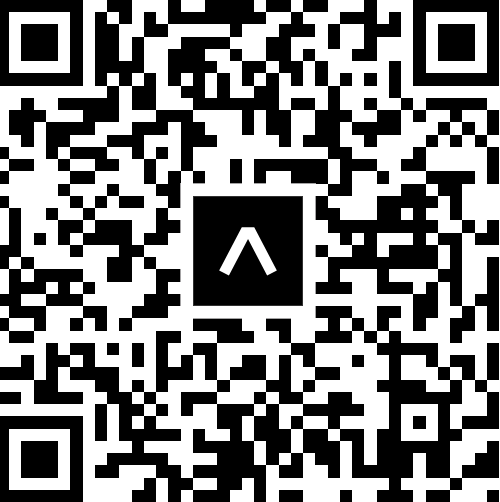
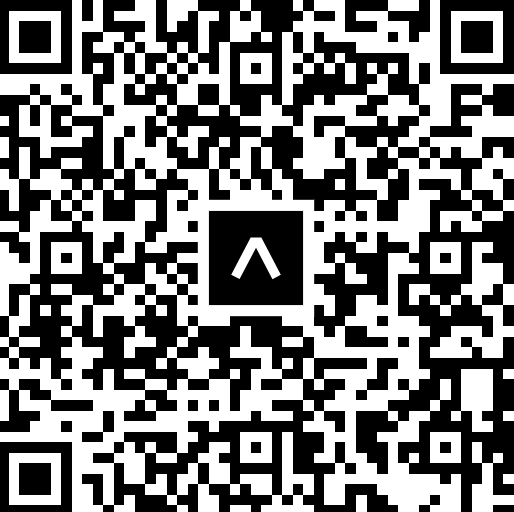
npm publish

diff --git a/README.md b/README.md
@@ -14,7 +14,7 @@ Support iOS & Android
 <img src="./shoot/android_1.jpg" width="375" /><img src="./shoot/android_2.jpg" width="375" />
 
 ## expo demo
-[expo home page](https://expo.dev/@mah22/maui?serviceType=classic&distribution=expo-go)
+[expo home page](https://expo.dev/@mah22/react-native-maui-example?serviceType=classic&distribution=expo-go)
 
 Scan the QR code with Expo Go (Android) or the Camera app
 
